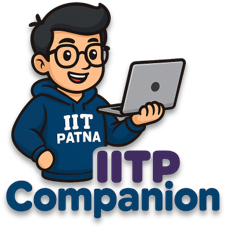
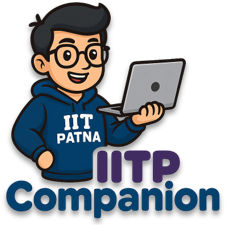
update some more features

diff --git a/static/css/login.css b/static/css/login.css
@@ -17,7 +17,7 @@ body {
 .navbar {
   display: flex;
   justify-content: center;
-  padding: 20px;
+  padding: 10px;
   background-color: #fff;
   border-bottom: 1px solid #e0e0e0;
 }
@@ -30,7 +30,7 @@ body {
 }
 
 .navbar-logo img {
-  height: 70px;
+  height: 100px;
   width: auto;
 }
 
@@ -144,6 +144,15 @@ body {
   text-decoration: underline;
 }
 
+
+.logo-text {
+    font-size: 1.2rem;
+    font-family: "Playfair Display", serif;
+    font-weight: 600;
+    color: #000;
+    }
+
+
 /* Responsive */
 @media (max-width: 600px) {
   .navbar {
@@ -158,8 +167,15 @@ body {
   }
 
   .navbar-logo img {
-    height: 70px;
+    height: 100px;
   }
+
+.logo-text {
+    font-size: 1.2rem;
+    font-family: "Playfair Display", serif;
+    font-weight: 600;
+    color: #000;
+    }
 
   .navbar-logo span {
     font-size: 18px;

diff --git a/static/css/sign-up.css b/static/css/sign-up.css
@@ -23,7 +23,7 @@ h1 {
     display: flex;
     justify-content: center;
     align-items: center;
-    padding: 20px;
+    padding: 10px;
     background-color: #fff;
     border-bottom: 1px solid #e0e0e0;
 }
@@ -36,7 +36,7 @@ h1 {
 }
 
 .navbar-logo img {
-    height: 70px;
+    height: 100px;
     width: auto;
 }
 
@@ -47,10 +47,18 @@ h1 {
     white-space: nowrap;
 }
 
+.logo-text {
+    font-size: 1.2rem;
+    font-family: "Playfair Display", serif;
+    font-weight: 600;
+    color: #000;
+    }
+
+
 /* Responsive Navbar */
 @media (max-width: 600px) {
     .navbar-logo img {
-        height: 70px;
+        height: 100px;
     }
 
     .navbar-logo span {

diff --git a/templates/sign-up.html b/templates/sign-up.html
@@ -16,7 +16,7 @@
           <a href="{% url 'home' %}">
           <img src="{% static 'images/iitpcomapanion1.png' %}" alt="IITP Logo">
           </a>
-            <span>IITP Companion+</span>
+            <span class="logo-text">IITP Companion+</span>
         </div>
     </div>
 

diff --git a/templates/login.html b/templates/login.html
@@ -16,7 +16,7 @@
       <a href="{% url 'home' %}">
       <img src="{% static 'images/iitpcomapanion1.png' %}" alt="IITP Logo">
       </a>
-      <span>IITP Companion+</span>
+      <span class="logo-text">IITP Companion+</span>
     </div>
   </div>
 

diff --git a/IITP_copanion_plus/settings.py b/IITP_copanion_plus/settings.py
@@ -29,7 +29,7 @@ SECRET_KEY = 'django-insecure-v0!twna&w!=k(4y7^&bt5wn(x#lc4o$p4tcjqfs$@j75iby)7)
 DEBUG = True
 
 
-ALLOWED_HOSTS = ['iitpcompanion.onrender.com']
+ALLOWED_HOSTS = []
 
 
 # Application definition
@@ -61,7 +61,6 @@ MIDDLEWARE = [
     'django.contrib.auth.middleware.AuthenticationMiddleware',
     'django.contrib.messages.middleware.MessageMiddleware',
     'django.middleware.clickjacking.XFrameOptionsMiddleware',
-    'whitenoise.middleware.WhiteNoiseMiddleware',
 ]
 
 ROOT_URLCONF = 'IITP_copanion_plus.urls'
